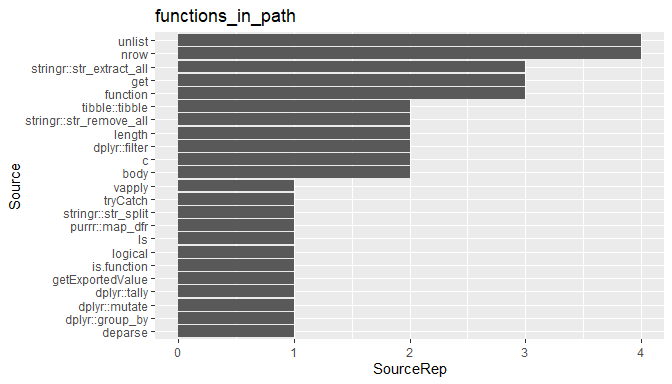
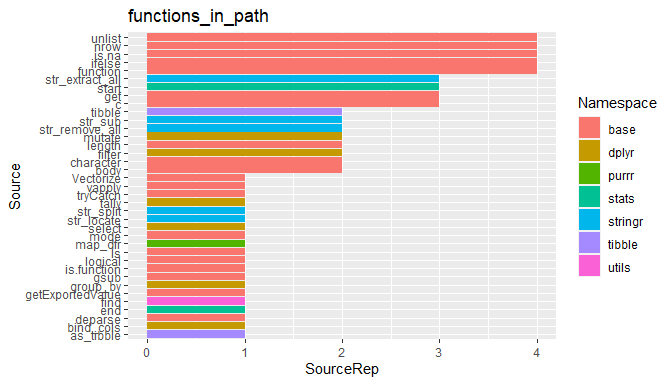
Extracting/finding namespace

diff --git a/README.md b/README.md
@@ -54,11 +54,11 @@ functions:
 ``` r
 dependency <- find_dependencies("find_functions", envir = envir, in_envir = TRUE)
 dependency
-#> # A tibble: 2 x 4
-#>   Source            SourceRep Target         TargetInDegree
-#>   <chr>                 <int> <chr>                   <int>
-#> 1 get_function_name         1 find_functions              2
-#> 2 is_function               1 find_functions              2
+#> # A tibble: 2 x 5
+#>   Source            SourceRep Namespace Target         TargetInDegree
+#>   <chr>                 <int> <chr>     <chr>                   <int>
+#> 1 get_function_name         1 <NA>      find_functions              2
+#> 2 is_function               1 <NA>      find_functions              2
 ```
 
 Search for all dependencies of function:
@@ -70,7 +70,7 @@ library(dplyr)
 dependency <- find_dependencies("find_dependencies", envir = envir, in_envir = FALSE)
 
 dependency %>% 
-  ggplot(aes(x = reorder(Source, SourceRep), y = SourceRep)) +
+  ggplot(aes(x = reorder(Source, SourceRep), y = SourceRep, fill = Namespace)) +
   geom_col() +
   coord_flip() +
   labs(title = "functions_in_path", x = "Source")
